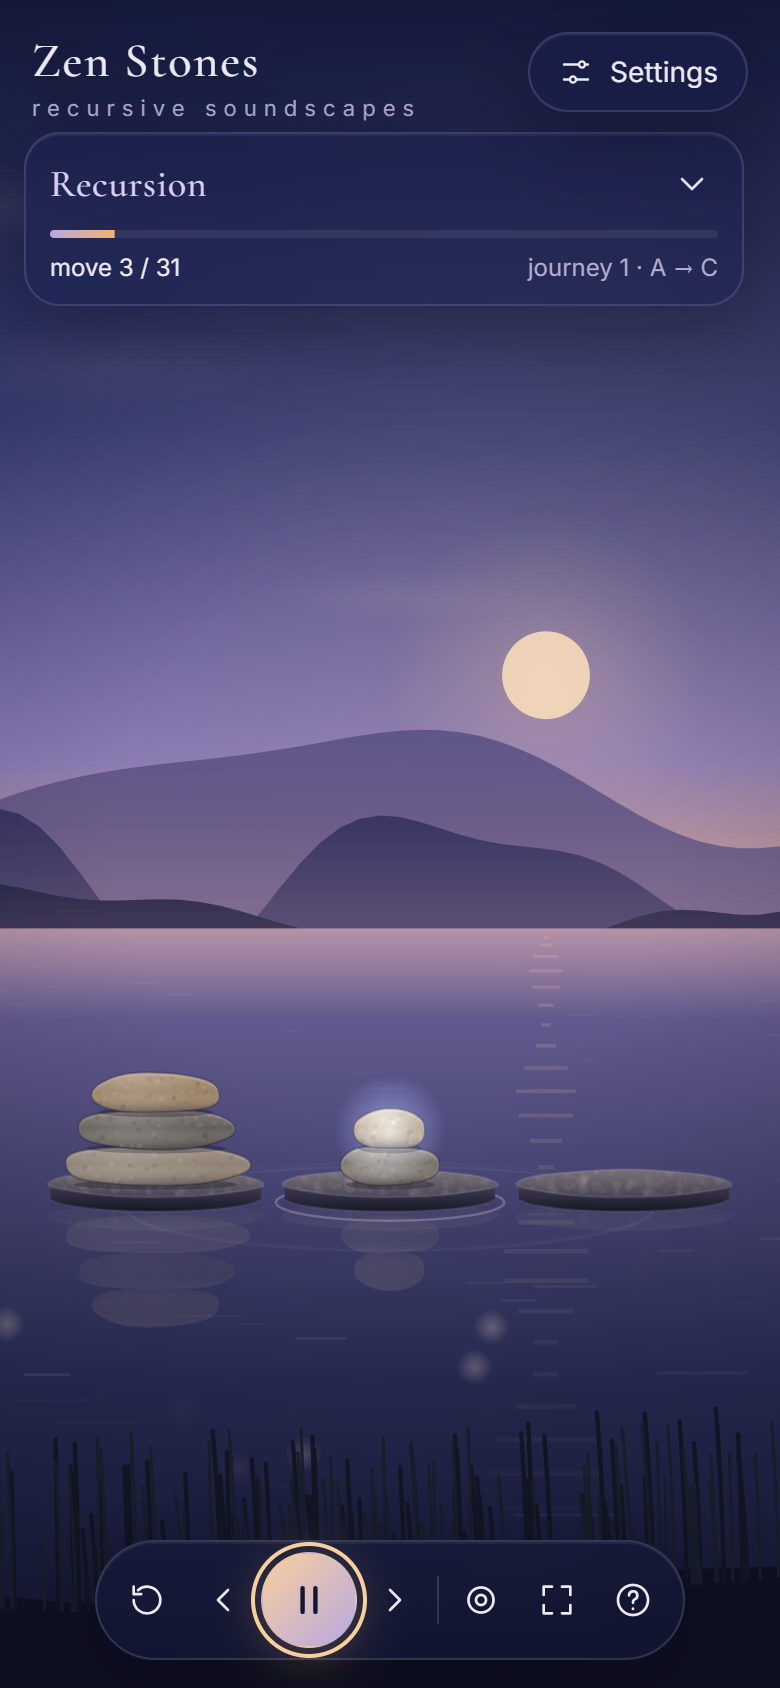
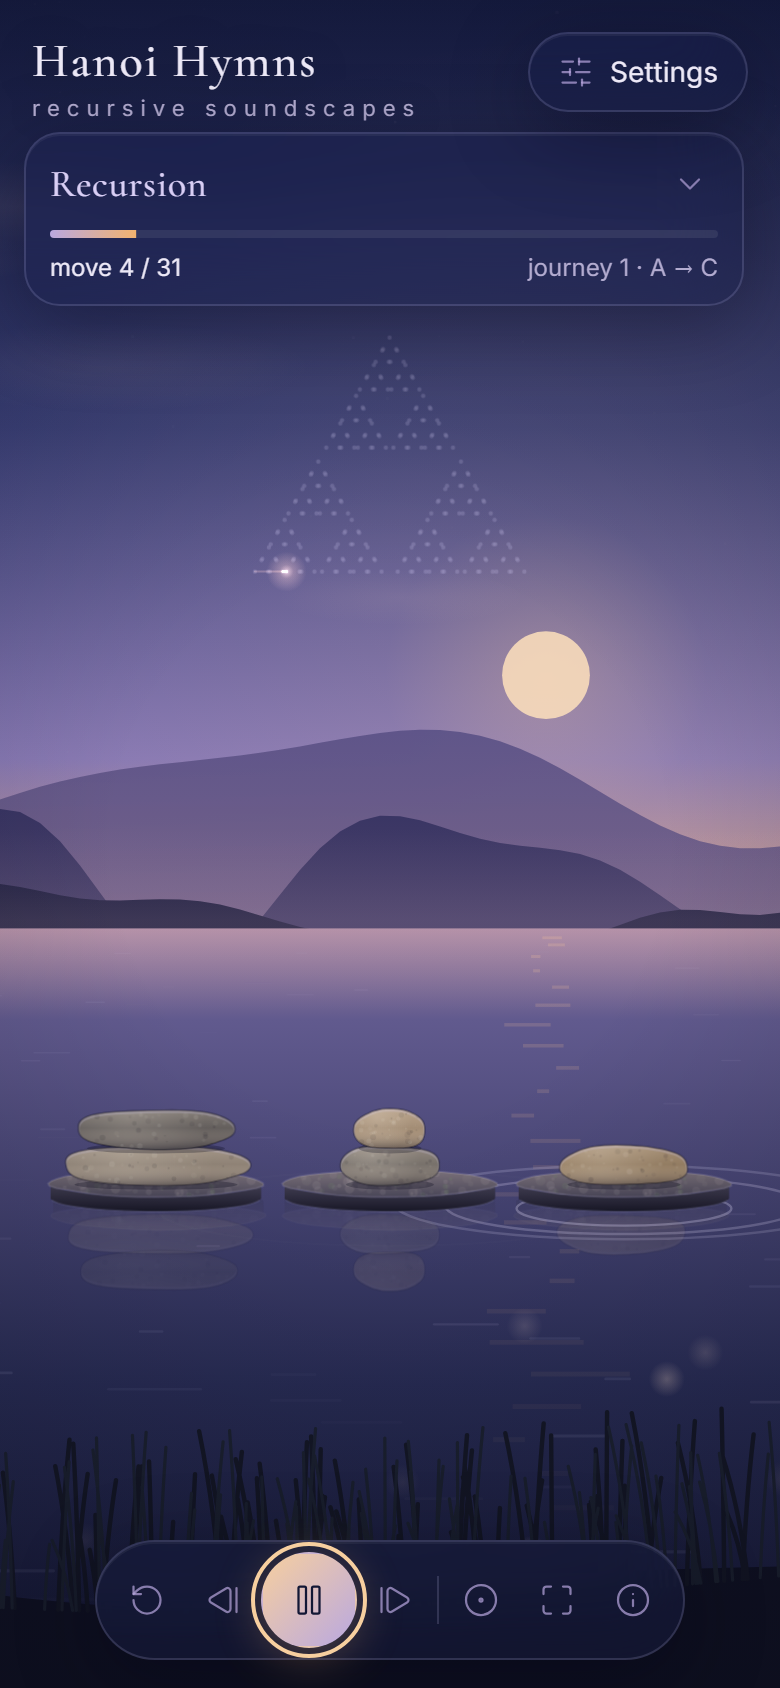
fix: fast export options + updated screenshot
- Export dialog: Quick clip (1 min, default), Short (3 min), Full piece, each with
  an estimated render time calibrated from measured speed (refined per export)
- Clips end on the strongest cadence near the target, ring out, then a 3 s
  equal-power fade; 2 s fade-in kept
- Render at 32 kHz (master is low-passed at 7.2 kHz): quick clip ~12 s end to end
- Cancel button (and Escape) closes the dialog, discards the render, resumes playback
- Retook the mobile screenshot with the Hanoi Hymns name; README export section updated

diff --git a/src/audio/export.js b/src/audio/export.js
@@ -9,39 +9,99 @@ import { buildGraph, performMove, performCue, triggerDroplet, setDroneActive } f
 import { rng } from '../util/random.js';
 import { PRESETS, NOTE_NAMES } from '../settings.js';
 
-const SAMPLE_RATE = 44100;
+// The master chain low-passes everything at 7.2 kHz, so rendering at 32 kHz
+// (Nyquist 16 kHz) loses nothing audible and is ~1/3 faster than 44.1 kHz.
+const SAMPLE_RATE = 32000;
 const TARGET_LUFS = -16;
 const PEAK_CEILING_DB = -1.2; // keep true-ish peak safely below −1 dBFS
+const CLIP_FADE = 3; // natural fade-out at the end of a clip (seconds)
+const CLIP_RING = 1.5; // let the cadence ring before the fade begins
+
+// Render speed (seconds of work per second of audio). Calibrated on this laptop
+// (≈ 21 s for 60 s at 32 kHz) and refined after every completed export.
+const SPEED_KEY = 'hanoi-hymns-render-speed';
+const DEFAULT_SPEED = 0.38;
+function renderSpeed() {
+  try {
+    const v = parseFloat(localStorage.getItem(SPEED_KEY));
+    if (Number.isFinite(v) && v > 0.02 && v < 5) return v;
+  } catch (e) { /* storage unavailable */ }
+  return DEFAULT_SPEED;
+}
+function rememberSpeed(v) {
+  try { localStorage.setItem(SPEED_KEY, String(0.5 * renderSpeed() + 0.5 * v)); } catch (e) { /* ignore */ }
+}
 
 export function exportInfo(settings) {
   const score = composeCycle(settings, 0, 0, 0);
   return { ...score, duration: cycleDuration(score, 12) };
 }
 
-export function exportFilename(s) {
+/**
+ * End a clip on the strongest cadence (the return of the largest call) that fits
+ * the target length, then let it ring and fade naturally.
+ */
+function clipLength(events, target) {
+  const latest = target - CLIP_RING - CLIP_FADE;
+  const inWindow = (lo) => events.filter((e) => e.phraseEnd && e.time <= latest && e.time >= lo);
+  let window = inWindow(target - 20); // stay close to the promised length
+  if (!window.length) window = inWindow(target * 0.6);
+  if (!window.length) return target;
+  const best = window.reduce((a, b) => (b.cadence > a.cadence || (b.cadence === a.cadence && b.time > a.time) ? b : a));
+  return best.time + CLIP_RING + CLIP_FADE;
+}
+
+/** Export length options with their duration and estimated render time. */
+export function exportOptions(settings) {
+  const info = exportInfo(settings);
+  const speed = renderSpeed();
+  const est = (sec) => Math.round(1.5 + sec * speed + sec * 0.012);
+  const fmt = (sec) => (sec < 90 ? `${Math.round(sec)} s` : `${Math.floor(sec / 60)}:${String(Math.round(sec % 60)).padStart(2, '0')} min`);
+  const opts = [];
+  if (info.duration > 75) {
+    const d = clipLength(info.events, 60);
+    opts.push({ id: 'quick', label: 'Quick clip', detail: '1 min', seconds: d, estimate: est(d) });
+  }
+  if (info.duration > 200) {
+    const d = clipLength(info.events, 180);
+    opts.push({ id: 'short', label: 'Short', detail: '3 min', seconds: d, estimate: est(d) });
+  }
+  opts.push({ id: 'full', label: 'Full piece', detail: fmt(info.duration), seconds: info.duration, estimate: est(info.duration) });
+  opts.forEach((o) => { o.estimateText = `≈ ${fmt(o.estimate)} to render`; o.lengthText = fmt(o.seconds); });
+  return opts;
+}
+
+export function exportFilename(s, length = 'full') {
   const preset = s.preset && PRESETS[s.preset] ? s.preset : 'custom';
   const root = NOTE_NAMES[s.root].replace('#', 's');
-  return `hanoi-hymns_${preset}_${s.n}-stones_${s.scale}-${root}_seed-${s.seed}.wav`;
+  const tag = length === 'full' ? 'full' : length === 'short' ? '3min' : '1min';
+  return `hanoi-hymns_${preset}_${s.n}-stones_${s.scale}-${root}_seed-${s.seed}_${tag}.wav`;
 }
+
+const aborted = () => Object.assign(new Error('Export cancelled'), { name: 'AbortError' });
 
 /**
  * @param {object} settings
  * @param {(phase: string, fraction: number) => void} onProgress
- * @param {{limit?: number}} opts  limit: render only the first N seconds (used for level checks)
+ * @param {{limit?: number, length?: 'quick'|'short'|'full', signal?: AbortSignal}} opts
+ *   limit: render only the first N seconds (level checks); length: clip option; signal: cancel
  * @returns {Promise<{blob: Blob, stats: object}>}
  */
-export async function renderWav(settings, onProgress = () => {}, { limit = Infinity } = {}) {
+export async function renderWav(settings, onProgress = () => {}, { limit = Infinity, length = 'full', signal } = {}) {
   const score = exportInfo(settings);
-  const duration = Math.min(score.duration, limit);
-  const events = score.events.filter((e) => e.time < duration);
-  const cues = score.cues.filter((c) => c.time < duration);
+  const opt = exportOptions(settings).find((o) => o.id === length);
+  const isClip = length !== 'full' && opt;
+  const duration = Math.min(isClip ? opt.seconds : score.duration, limit);
+  const events = score.events.filter((e) => e.time < duration - (isClip ? CLIP_FADE : 0));
+  const cues = score.cues.filter((c) => c.time < duration - (isClip ? CLIP_FADE : 0));
   const finalCue = score.cues.find((c) => c.kind === 'final');
   onProgress('Composing the stones…', 0.02);
+  if (signal?.aborted) throw aborted();
 
-  // Tone.Offline exposes no render progress, so estimate it from a measured
-  // speed and ease the bar toward 90 % until rendering resolves.
+  // The offline renderer exposes no progress, so ease the bar toward 90 % using
+  // the measured render speed of this machine.
   const started = performance.now();
-  const expectedMs = 2000 + duration * 550; // measured: ≈ 35 s to render 60 s on a busy laptop
+  const expectedMs = (1.5 + duration * renderSpeed()) * 1000;
   let rendering = true;
   const timer = setInterval(() => {
     if (!rendering) return;
@@ -53,14 +113,21 @@ export async function renderWav(settings, onProgress = () => {}, { limit = Infin
   try {
     buffer = await renderOffline(async () => {
       const g = await buildGraph(settings, { lean: true });
-      // 2 s fade-in; the bed (drone + harmony) breathes out after the final cadence;
-      // the master then fades naturally (exponential) over the last seconds.
+      // 2 s fade-in on every export
       g.fader.gain.setValueAtTime(0, 0);
       g.fader.gain.linearRampToValueAtTime(1, 2);
-      g.fader.gain.setValueAtTime(1, Math.max(2.1, duration - 6));
-      g.fader.gain.setTargetAtTime(0, Math.max(2.1, duration - 6), 1.4);
+      if (isClip || duration < score.duration) {
+        // Clip: the cadence rings, then a smooth equal-power 3 s fade (never a hard cut)
+        const curve = new Float32Array(64).map((_, i) => Math.cos((i / 63) * Math.PI / 2));
+        g.fader.gain.setValueAtTime(1, duration - CLIP_FADE - 0.01);
+        g.fader.gain.setValueCurveAtTime(curve, duration - CLIP_FADE, CLIP_FADE - 0.02);
+      } else {
+        // Full piece: the bed breathes out after the final cadence, then a natural fade
+        g.fader.gain.setValueAtTime(1, Math.max(2.1, duration - 6));
+        g.fader.gain.setTargetAtTime(0, Math.max(2.1, duration - 6), 1.4);
+      }
       setDroneActive(g, true, 0, 2);
-      if (finalCue && finalCue.time < duration) setDroneActive(g, false, finalCue.time + 1.5, 7);
+      if (!isClip && finalCue && finalCue.time < duration) setDroneActive(g, false, finalCue.time + 1.5, 7);
       // Merge moves and cues in time order so harmony voice-leading matches live playback
       const timeline = events.map((ev) => ({ t: ev.time, ev })).concat(cues.map((cue) => ({ t: cue.time, cue })));
       timeline.sort((a, b) => a.t - b.t);
@@ -80,6 +147,8 @@ export async function renderWav(settings, onProgress = () => {}, { limit = Infin
     rendering = false;
     clearInterval(timer);
   }
+  if (signal?.aborted) throw aborted(); // cancelled while rendering: discard the result
+  rememberSpeed((performance.now() - started) / 1000 / duration);
 
   const audio = buffer.get();
   onProgress('Balancing the levels…', 0.9);
@@ -88,7 +157,10 @@ export async function renderWav(settings, onProgress = () => {}, { limit = Infin
   const lufsGain = Number.isFinite(before.lufs) ? 10 ** ((TARGET_LUFS - before.lufs) / 20) : 1;
   const peakGain = before.peak > 0 ? 10 ** (PEAK_CEILING_DB / 20) / before.peak : 1;
   const gain = Math.min(lufsGain, peakGain, 8);
-  const blob = await encodeWav(audio, (f) => onProgress('Pressing the stones into a file…', 0.92 + 0.08 * f), gain);
+  const blob = await encodeWav(audio, (f) => {
+    if (signal?.aborted) throw aborted();
+    onProgress('Pressing the stones into a file…', 0.92 + 0.08 * f);
+  }, gain);
   const gdb = 20 * Math.log10(gain);
   const stats = {
     seconds: +duration.toFixed(1),

diff --git a/src/main.js b/src/main.js
@@ -6,7 +6,7 @@ import * as Tone from 'tone';
 import { DEFAULTS, PRESETS, sanitize, fromHash, toHash } from './settings.js';
 import { Conductor } from './conductor.js';
 import { buildGraph, fadeMaster } from './audio/engine.js';
-import { renderWav, downloadBlob, exportFilename, exportInfo } from './audio/export.js';
+import { renderWav, downloadBlob, exportFilename, exportOptions } from './audio/export.js';
 import { paceBase } from './recursion/composer.js';
 import { Scene } from './visual/scene.js';
 import { StackView } from './visual/stack.js';
@@ -267,42 +267,100 @@ $('#btn-share').addEventListener('click', async () => {
 // ---------------------------------------------------------------- export
 
 function updateExportNote() {
-  const { duration } = exportInfo(controls.s);
-  const mb = (duration * 44100 * 4) / 1048576;
-  const m = Math.floor(duration / 60);
-  const s = Math.round(duration % 60);
-  $('#export-note').textContent = `One full solve · ${2 ** controls.s.n - 1} moves · ${m}:${String(s).padStart(2, '0')} · WAV ≈ ${mb.toFixed(0)} MB`;
+  const opts = exportOptions(controls.s);
+  const quick = opts[0];
+  $('#export-note').textContent = `${opts.map((o) => `${o.label} ${o.lengthText}`).join(' · ')} — ${quick.label.toLowerCase()} renders in ${quick.estimateText.replace(' to render', '')}`;
 }
 updateExportNote();
 
-$('#btn-export').addEventListener('click', async () => {
-  const btn = $('#btn-export');
-  if (btn.disabled) return;
-  btn.disabled = true;
-  const overlay = $('#export-overlay');
-  overlay.hidden = false;
-  const wasPlaying = conductor.playing;
-  if (wasPlaying) conductor.pause();
+// Export dialog: choose a length (with estimated render time), render, or cancel.
+const exportOverlay = $('#export-overlay');
+let exportJob = null; // { controller, wasPlaying }
+let exportReturnFocus = null;
+
+function openExportDialog() {
+  if (exportJob) return;
+  exportReturnFocus = document.activeElement;
+  const opts = exportOptions(controls.s);
+  const box = $('#export-options');
+  box.querySelectorAll('label').forEach((l) => l.remove());
+  opts.forEach((o, i) => {
+    const label = document.createElement('label');
+    label.className = 'export-opt';
+    label.innerHTML = `<input type="radio" name="export-length" value="${o.id}" ${i === 0 ? 'checked' : ''} />
+      <span class="eo-main"><b>${o.label}</b> <span class="muted">(${o.detail})</span></span>
+      <span class="eo-est muted tiny">${o.estimateText}</span>`;
+    box.appendChild(label);
+  });
+  $('#export-choose').hidden = false;
+  $('#export-running').hidden = true;
+  exportOverlay.hidden = false;
+  setTimeout(() => box.querySelector('input:checked').focus(), 30);
+}
+
+function closeExportDialog() {
+  exportOverlay.hidden = true;
+  $('#export-bar').style.transform = 'scaleX(0)';
+  exportReturnFocus?.focus?.({ preventScroll: true });
+}
+
+async function startExport() {
+  const length = $('#export-options input:checked')?.value || 'quick';
+  const opt = exportOptions(controls.s).find((o) => o.id === length);
+  const s = controls.s;
+  const controller = new AbortController();
+  exportJob = { controller, wasPlaying: conductor.playing };
+  if (exportJob.wasPlaying) conductor.pause();
+  $('#export-choose').hidden = true;
+  $('#export-running').hidden = false;
+  $('#export-eta').textContent = `${opt.label} · ${opt.lengthText} of sound · ${opt.estimateText}`;
+  $('#export-stop').focus();
   const bar = $('#export-bar');
   const prog = $('#export-progress');
+  const job = exportJob;
   try {
-    const s = controls.s;
     const { blob } = await renderWav(s, (phase, f) => {
+      if (controller.signal.aborted) return;
       $('#export-phase').textContent = phase;
       bar.style.transform = `scaleX(${f.toFixed(3)})`;
       prog.setAttribute('aria-valuenow', String(Math.round(f * 100)));
-    });
-    downloadBlob(blob, exportFilename(s));
+    }, { length, signal: controller.signal });
+    if (controller.signal.aborted) return;
+    downloadBlob(blob, exportFilename(s, length));
     toast('Your soundscape is ready.');
   } catch (err) {
-    console.error(err);
-    toast('Export failed — please try fewer stones or a faster pace.');
+    if (err.name !== 'AbortError') {
+      console.error(err);
+      toast('Export failed — please try a shorter clip.');
+    }
   } finally {
-    overlay.hidden = true;
-    btn.disabled = false;
-    bar.style.transform = 'scaleX(0)';
-    if (wasPlaying) conductor.play();
+    if (exportJob === job) finishExport();
   }
+}
+
+function finishExport() {
+  const job = exportJob;
+  exportJob = null;
+  closeExportDialog();
+  if (job?.wasPlaying) conductor.play();
+}
+
+function cancelExport() {
+  if (!exportJob) return;
+  exportJob.controller.abort(); // the dialog closes now; any unfinished render is discarded
+  finishExport();
+  toast('Export cancelled.');
+}
+
+$('#btn-export').addEventListener('click', openExportDialog);
+$('#export-go').addEventListener('click', startExport);
+$('#export-dismiss').addEventListener('click', closeExportDialog);
+$('#export-stop').addEventListener('click', cancelExport);
+exportOverlay.addEventListener('keydown', (e) => {
+  if (e.key !== 'Escape') return;
+  e.preventDefault();
+  if (exportJob) cancelExport();
+  else closeExportDialog();
 });
 
 // ---------------------------------------------------------------- toast

diff --git a/src/style.css b/src/style.css
@@ -311,8 +311,25 @@ body.breathing .breath { opacity: 1; }
 /* ---------- export overlay ---------- */
 .export-overlay { position: fixed; inset: 0; z-index: 30; display: grid; place-items: center; background: rgba(6, 8, 24, 0.5); backdrop-filter: blur(4px); padding: 16px; }
 .export-overlay[hidden] { display: none; }
-.export-card { width: min(380px, 100%); padding: 28px; text-align: center; background: var(--glass-strong); }
+.export-card { width: min(400px, 100%); padding: 28px; text-align: center; background: var(--glass-strong); }
 .export-card h2 { font-size: 24px; }
+.export-card [hidden] { display: none !important; }
+.export-options { border: 0; padding: 0; margin: 18px 0 10px; display: grid; gap: 8px; text-align: left; }
+.export-opt {
+  position: relative; display: flex; justify-content: space-between; align-items: baseline; gap: 10px;
+  padding: 11px 14px; border-radius: 12px; cursor: pointer;
+  border: 1px solid var(--glass-border); background: rgba(10, 12, 36, 0.35);
+  transition: border-color 0.2s var(--ease), background 0.2s var(--ease), box-shadow 0.2s var(--ease);
+}
+.export-opt input { position: absolute; opacity: 0; inset: 0; margin: 0; cursor: pointer; }
+.export-opt:hover { background: rgba(185, 168, 224, 0.12); }
+.export-opt:has(input:checked) { border-color: rgba(242, 179, 111, 0.6); background: rgba(242, 179, 111, 0.08); box-shadow: 0 0 14px rgba(242, 179, 111, 0.15); }
+.export-opt:has(input:focus-visible) { outline: 2px solid var(--focus); outline-offset: 2px; }
+.eo-main b { font-weight: 500; }
+.eo-est { white-space: nowrap; }
+.export-actions { display: flex; gap: 10px; align-items: center; margin-top: 14px; }
+.export-actions .wide { margin: 0; flex: 1; }
+#export-stop { margin-top: 6px; }
 .export-ring { width: 64px; height: 64px; margin: 0 auto 16px; border-radius: 50%; border: 1px solid rgba(247, 207, 159, 0.5); animation: breathe 5s ease-in-out infinite; box-shadow: 0 0 40px rgba(242, 179, 111, 0.25) inset; }
 @keyframes breathe { 0%, 100% { transform: scale(0.75); opacity: 0.6; } 50% { transform: scale(1.05); opacity: 1; } }
 

diff --git a/index.html b/index.html
@@ -243,11 +243,25 @@
     <!-- Export overlay -->
     <div id="export-overlay" class="export-overlay" role="dialog" aria-modal="true" aria-labelledby="export-title" hidden>
       <div class="glass export-card">
-        <div class="export-ring" aria-hidden="true"></div>
-        <h2 id="export-title">Rendering your soundscape</h2>
-        <p id="export-phase" class="muted">Composing the stones…</p>
-        <div class="progress big" role="progressbar" aria-label="Export progress" aria-valuemin="0" aria-valuemax="100" aria-valuenow="0" id="export-progress"><div id="export-bar"></div></div>
-        <p class="muted tiny">Breathe slowly — this takes a little while.</p>
+        <div id="export-choose">
+          <h2 id="export-title">Download my soundscape</h2>
+          <fieldset id="export-options" class="export-options">
+            <legend class="sr-only">Length of the recording</legend>
+          </fieldset>
+          <p class="muted tiny">WAV · 16-bit stereo · 2 s fade-in · clips end on a cadence with a soft 3 s fade</p>
+          <div class="export-actions">
+            <button id="export-dismiss" class="chip">Cancel</button>
+            <button id="export-go" class="wide primary"><i data-lucide="download"></i>Render &amp; download</button>
+          </div>
+        </div>
+        <div id="export-running" hidden>
+          <div class="export-ring" aria-hidden="true"></div>
+          <h2>Rendering your soundscape</h2>
+          <p id="export-phase" class="muted" aria-live="polite">Composing the stones…</p>
+          <div class="progress big" role="progressbar" aria-label="Export progress" aria-valuemin="0" aria-valuemax="100" aria-valuenow="0" id="export-progress"><div id="export-bar"></div></div>
+          <p id="export-eta" class="muted tiny"></p>
+          <button id="export-stop" class="chip">Cancel export</button>
+        </div>
       </div>
     </div>
 

diff --git a/src/recursion/composer.js b/src/recursion/composer.js
@@ -83,7 +83,11 @@ export function composeCycle({ n, from, to, pace, seed }, cycle = 0, startTime =
     if (e.type === 'return') {
       harm.pop();
       // A call of size ≥ 2 ends right after this move: a cadence
-      if (e.n >= 2 && events.length) events[events.length - 1].phraseEnd = true;
+      if (e.n >= 2 && events.length) {
+        const last = events[events.length - 1];
+        last.phraseEnd = true;
+        last.cadence = Math.max(last.cadence, e.n); // size of the largest call this move closes
+      }
       continue;
     }
     // move
@@ -108,6 +112,7 @@ export function composeCycle({ n, from, to, pace, seed }, cycle = 0, startTime =
       swell: swellFor(e.index, e.stack),
       phraseStart: pendingQuestion,
       phraseEnd: false,
+      cadence: 0,
     });
     pendingQuestion = false;
     // Fractal breath: bigger stones leave longer silences behind them.

diff --git a/README.md b/README.md
@@ -125,11 +125,15 @@ triangle and then slowly fades. It can be toggled in the panel.
 - **Presets** — Morning Mist · Monsoon Evening · Temple Night · Deep Sleep, each with a small
   hand-drawn mood thumbnail.
 - **Share link** — all settings + seed live in the URL hash; anyone opening it hears the same piece.
-- **Download my soundscape** — renders one full solve offline with the *same* audio graph, fades in
-  over 2 s and out naturally, normalises to about −16 LUFS with peaks below −1 dBFS, and saves a
-  16-bit stereo 44.1 kHz WAV. A calm progress card shows meanwhile. The filename includes preset,
-  stones, scale and seed. (Measured: 60 s of Morning Mist → −16.0 LUFS, peak −2.96 dBFS,
-  RMS −18.4 dBFS, no clipping.)
+- **Download my soundscape** — choose **Quick clip (1 min)** (default), **Short (3 min)** or the
+  **Full piece**. Each option shows its estimated render time, calibrated on the user's own machine
+  after every export. Clips end on the strongest cadence (the return of the largest call) near the
+  chosen length, ring out briefly and close with a soft 3 s fade, never a hard cut. Everything is
+  rendered offline with the *same* audio graph, fades in over 2 s, is normalised to about −16 LUFS
+  with peaks below −1 dBFS, and saved as a 16-bit stereo WAV at 32 kHz (the master low-pass at
+  7.2 kHz means nothing audible is lost, and rendering is a third faster). A calm progress card can
+  be cancelled at any time. Measured on the dev laptop: a quick clip takes ≈ 12 s end to end.
+  (60 s of Morning Mist → −16.0 LUFS, peak −2.96 dBFS, RMS −18.4 dBFS, no clipping.)
 - **Calm tools** — breathing guide (inhale 4 · hold 4 · exhale 6, following the pace), sleep timer
   (10 / 20 / 30 min with a one-minute fade-out), focus mode (hide all UI), *About the math* modal.
 - **Accessible** — full keyboard control, visible focus rings, ARIA labels, good contrast,
